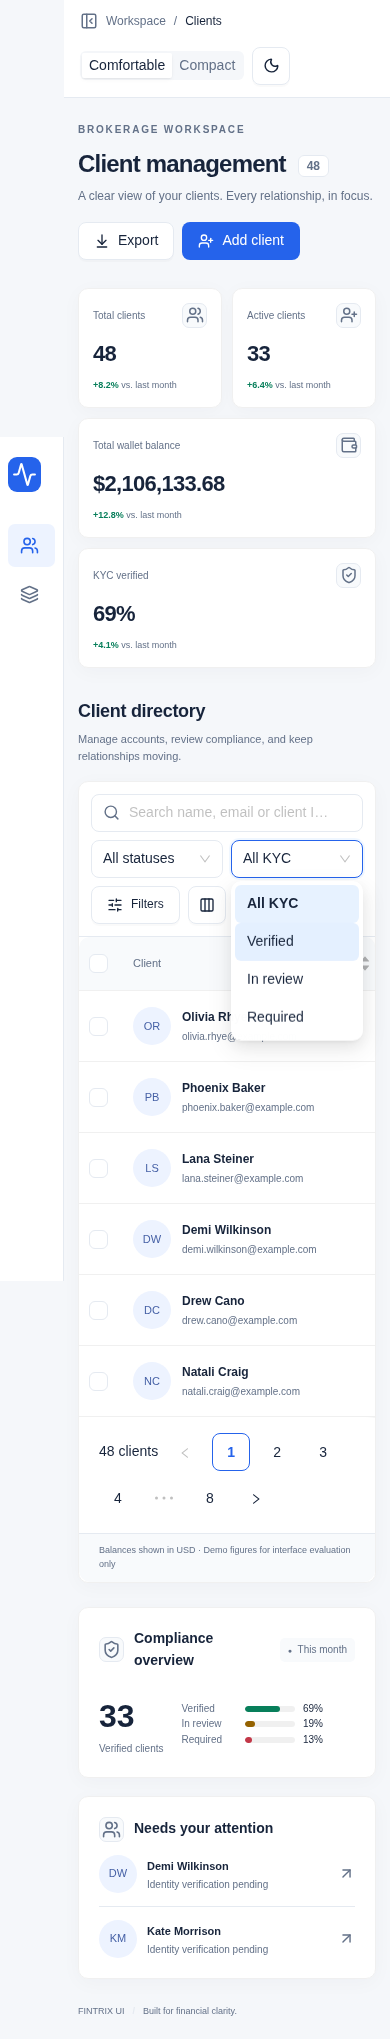
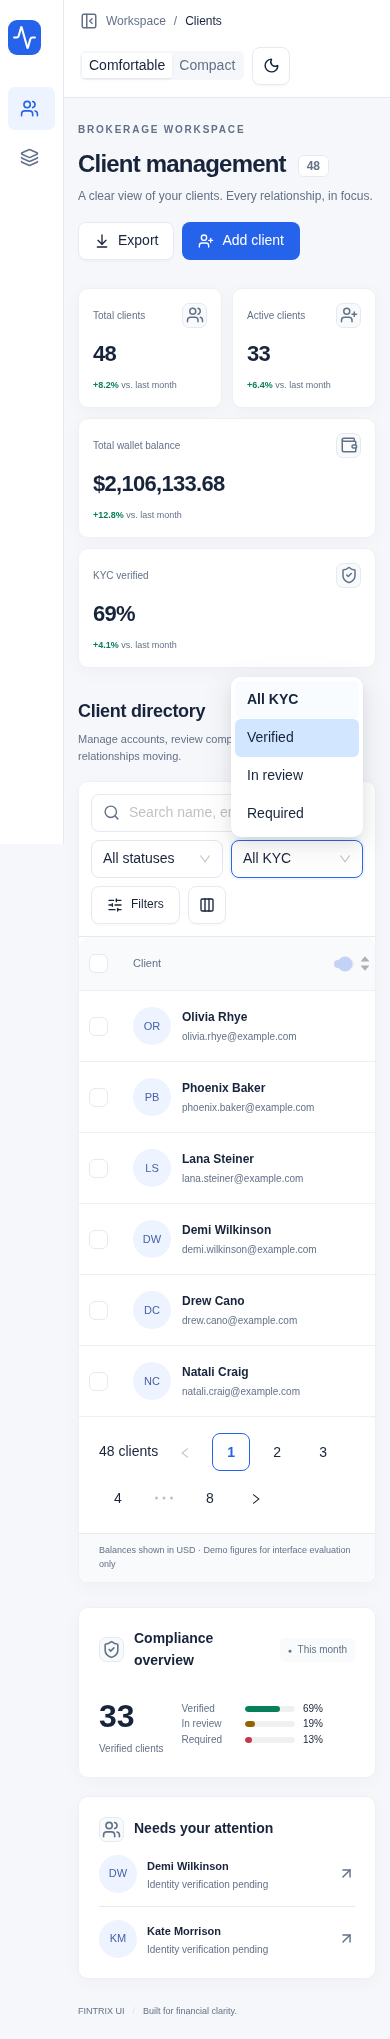
docs: record validation results and final mobile capture

diff --git a/docs/validation.md b/docs/validation.md
@@ -1,0 +1,17 @@
+# Phase 1 validation
+
+Validated on 2026-10-16 using Node 24.19.0, npm 11.9.0 and system Chromium in the managed development environment.
+
+| Check | Result |
+| --- | --- |
+| TypeScript + Vite production build | Pass |
+| Vitest / React Testing Library | 4 tests pass |
+| Playwright Chromium | 2 end-to-end scenarios pass |
+| Storybook production build | Pass |
+| Git whitespace check | Pass |
+
+Browser scenarios cover search, client edit/save, validation and creation, column visibility/reordering/resizing controls, sorting, pagination, light/dark + compact switching, and mobile combined filters/empty state. Screenshots are captured directly with Playwright from the running Vite app at 1536×1120 and 390×844 viewports. Full-page captures can be taller than the viewport. Visual inspection identified and corrected the narrow-screen wallet card overflow.
+
+The builds report a large JavaScript chunk (application approximately 1.11 MB minified / 355 KB gzip). This is a working POC, not a performance-tuned distributable. Phase 2 should introduce route/component splitting, validate consumer tree shaking and establish bundle budgets. Storybook has its own larger documentation runtime.
+
+Not claimed: cross-browser certification, WCAG audit, large-data benchmarks, production security review, remote CI completion, or testing of financial transactions. The CI workflow repeats build, unit, Storybook and Chromium checks on pushes and pull requests.
